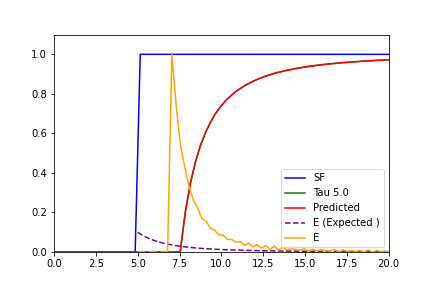
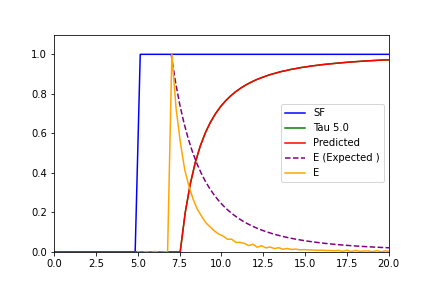
E expected

diff --git a/Experiments/Preliminary/Convolution_script/Convolution_017_unified_time_delay_Model/Conv_unified_017.py b/Experiments/Preliminary/Convolution_script/Convolution_017_unified_time_delay_Model/Conv_unified_017.py
@@ -12,14 +12,14 @@ from lightning.pytorch import loggers as pl_loggers
 
 tau_5_dir = '/Users/tuanaoyuncu/Documents/GitHub/nRTD/Experiments/Preliminary/Litrature/Unified_time_delay'
 
-t_conv_tau = torch.tensor(np.load(os.path.join(tau_5_dir, 'time_J5_tau1_alpha0.2.npy')), dtype=torch.float32).unsqueeze(0).unsqueeze(0)
-c_out_tau = torch.tensor(np.load(os.path.join(tau_5_dir, 'concentration_J5_tau1_alpha0.2.npy')), dtype=torch.float32).unsqueeze(0).unsqueeze(0)
+t_conv_tau = torch.tensor(np.load(os.path.join(tau_5_dir, 'time_J5_tau3_alpha0.2.npy')), dtype=torch.float32).unsqueeze(0).unsqueeze(0)
+c_out_tau = torch.tensor(np.load(os.path.join(tau_5_dir, 'concentration_J5_tau3_alpha0.2.npy')), dtype=torch.float32).unsqueeze(0).unsqueeze(0)
 
 n_disc = 111
 t_input = torch.linspace(0, 20, n_disc)
 c_in = torch.zeros((1, 1, n_disc))
-c_in[::2, :, t_input > 1] = 1
-c_in[1::2, :, t_input < 1] = 1
+c_in[::2, :, t_input > 5] = 1
+c_in[1::2, :, t_input < 5] = 1
 
 c_out_list = []
 t_conv_list = []
@@ -83,6 +83,7 @@ E = model.net.E[0]
 t_E = torch.linspace(0, 25, model.kernel_size)
 E = E / E.max()
 
+
 plt.figure()
 plt.plot(t_input, c_in[0, 0, :].numpy(), label="SF", color="blue")
 
@@ -103,21 +104,24 @@ plt.plot(
 
 t_plot = torch.linspace(0, 40, 1000).numpy()
 
-E_expected =  (123.224 * np.exp(-5.24709 * t_plot) * t_plot**4
-       + 5.66367e-9 * np.exp(-0.952909 * t_plot) * t_plot**4
-       - 6.36342 * np.exp(-5.24709 * t_plot) * t_plot**3
-       + 8.68252e-6 * np.exp(-0.952909 * t_plot) * t_plot**3
-       - 4.34703 * np.exp(-5.24709 * t_plot) * t_plot**2
-       + 0.00108703 * np.exp(-0.952909 * t_plot) * t_plot**2
-       - 1.97921 * np.exp(-5.24709 * t_plot) * t_plot
-       + 0.0449 * np.exp(-0.952909 * t_plot) * t_plot
-       - 0.450448 * np.exp(-5.24709 * t_plot)
-       + 0.450448 * np.exp(-0.952909 * t_plot))
+E_expected=(0.507094 * np.exp(-1.74903 * t_plot) * t_plot**4
+               + 9.81543e-11 * np.exp(-0.317636 * t_plot) * t_plot**4
+               - 0.0785608 * np.exp(-1.74903 * t_plot) * t_plot**3
+               + 1.0707e-7 * np.exp(-0.317636 * t_plot) * t_plot**3
+               - 0.161001 * np.exp(-1.74903 * t_plot) * t_plot**2
+               + 4.02603e-5 * np.exp(-0.317636 * t_plot) * t_plot**2
+               - 0.219912 * np.exp(-1.74903 * t_plot) * t_plot
+               + 0.00498889 * np.exp(-0.317636 * t_plot) * t_plot
+               - 0.150149 * np.exp(-1.74903 * t_plot)
+               + 0.150149 * np.exp(-0.317636 * t_plot))
 
 E_expected[t_plot < 5] = 0
+
+E_expected =E_expected /E_expected.max()
+
 plt.plot(t_plot, E_expected, label="E_Expected", color="purple", linestyle='--')
 plt.plot(t_E, E, label="E_predicted", color="orange")
-plt.savefig("Figure_conv_unifiedtdelay_J5_tau1")
+#plt.savefig("Figure_conv_unifiedtdelay_J5_tau1")
 plt.xlim((0, 50))
 plt.ylim((0, 1.1))
 plt.legend()

diff --git a/Experiments/Preliminary/Convolution_script/Convolution_016_Dispersion_Model/Conv_dispersion_016.py b/Experiments/Preliminary/Convolution_script/Convolution_016_Dispersion_Model/Conv_dispersion_016.py
@@ -12,10 +12,10 @@ from nrtd import RTDModule
 from lightning.pytorch import loggers as pl_loggers
 
 
-if wandb.run is not None:
-    wandb.finish()
-module_path = os.path.expanduser("~/Documents/GitHub/nRTD/lib")
-sys.path.append(module_path)
+# if wandb.run is not None:
+#     wandb.finish()
+# module_path = os.path.expanduser("~/Documents/GitHub/nRTD/lib")
+# sys.path.append(module_path)
 
 tau_5_dir = '/Users/tuanaoyuncu/Documents/GitHub/nRTD/Experiments/Preliminary/Litrature/Dispersion_Model/Bo10_200'
 t_conv_tau = torch.tensor(np.load(os.path.join(tau_5_dir, 'time.npy')), dtype=torch.float32).unsqueeze(0).unsqueeze(0)
@@ -84,17 +84,24 @@ plt.show()
 print(model(c_in).size())
 ds = TensorDataset(c_in, c_out)
 dl = DataLoader(ds, batch_size=20, shuffle=True)
-wandb_logger = pl_loggers.WandbLogger(
-    project="nRTD",
-    log_model=True
-)
+# wandb_logger = pl_loggers.WandbLogger(
+#     project="nRTD",
+#     log_model=True
+# )
+
+# trainer = pl.Trainer(
+#     accelerator="gpu" if torch.cuda.is_available() else "cpu",
+#     max_epochs=10000,
+#     logger=wandb_logger,
+#     deterministic=True,
+# )
 
 trainer = pl.Trainer(
     accelerator="gpu" if torch.cuda.is_available() else "cpu",
     max_epochs=10000,
-    logger=wandb_logger,
     deterministic=True,
 )
+
 trainer.fit(model, dl)
 trainer.test(model, dl)
 c_conv = model(c_in)
@@ -110,6 +117,7 @@ def expected_formula(t):
 E_expected_np = expected_formula(t_E_np)
 dt = t_E_np[1] - t_E_np[0]  
 E_expected_np /= np.sum(E_expected_np * dt)
+E_expected_np =E_expected_np /E_expected_np.max()
 
 
 plt.figure()
@@ -129,10 +137,10 @@ plt.plot(
     label="Predicted",
     color="red",
 )
-plt.plot(t_E_np, E_expected_np, label="E (Expected )", color="purple", linestyle="--")
+plt.plot(t_E_np+3, E_expected_np, label="E (Expected )", color="purple", linestyle="--")
 plt.plot(t_E, E, label="E", color="orange")
 plt.xlim((0, 100))
 plt.ylim((0, 1.1))
 plt.legend()
-#plt.savefig("Figure_conv_dispersion_Bo10_200disc_expected_epoch 10000")
+plt.savefig("Figure_conv_dispersion_Bo10_200disc_expected_epoch_10000")
 plt.show()

diff --git a/Experiments/Preliminary/Convolution_script/Convolution_011_Laminar_Model/Conv_laminar.py b/Experiments/Preliminary/Convolution_script/Convolution_011_Laminar_Model/Conv_laminar.py
@@ -11,10 +11,10 @@ import wandb
 from nrtd import RTDModule
 from lightning.pytorch import loggers as pl_loggers
 
-if wandb.run is not None:
-    wandb.finish()
-module_path = os.path.expanduser("~/Documents/GitHub/nRTD/lib")
-sys.path.append(module_path)
+# if wandb.run is not None:
+#     wandb.finish()
+# module_path = os.path.expanduser("~/Documents/GitHub/nRTD/lib")
+# sys.path.append(module_path)
 
 tau_5_dir = '/Users/tuanaoyuncu/Documents/GitHub/nRTD/Experiments/Preliminary/Litrature/Laminar_Flow_Model/tau_200_5.0'
 t_conv_tau = torch.tensor(np.load(os.path.join(tau_5_dir, 'time.npy')), dtype=torch.float32).unsqueeze(0).unsqueeze(0)
@@ -91,21 +91,27 @@ plt.show()
 print(model(c_in).size())
 ds = TensorDataset(c_in, c_out)
 dl = DataLoader(ds, batch_size=20, shuffle=True)
-wandb_logger = pl_loggers.WandbLogger(
-    project="nRTD",
-    log_model=True
-)
+# wandb_logger = pl_loggers.WandbLogger(
+#     project="nRTD",
+#     log_model=True
+# )
 
 ds = TensorDataset(c_in, c_out)
 dl = DataLoader(ds, batch_size=20, shuffle=True)
 
 
+# trainer = pl.Trainer(
+#     accelerator="auto",
+#     max_epochs=10000,
+#     logger=wandb_logger,
+#     deterministic=True,
+# )
 trainer = pl.Trainer(
     accelerator="auto",
     max_epochs=10000,
-    logger=wandb_logger,
     deterministic=True,
 )
+
 trainer.fit(model, dl)
 trainer.test(model, dl)
 
@@ -120,6 +126,7 @@ t_E_np = t_E.numpy()
 def expected_formula(t):
     return np.where(t >= 2.5,(5**2) / (2 * (t**3)), 0)
 E_expected_np = expected_formula(t_E_np)
+E_expected_np =E_expected_np /E_expected_np.max()
 
 
 
@@ -140,11 +147,11 @@ plt.plot(
     label="Predicted",
     color="red",
 )
-plt.plot(t_E_np, E_expected_np, label="E (Expected )", color="purple", linestyle="--")
+plt.plot(t_E_np+2, E_expected_np, label="E (Expected )", color="purple", linestyle="--")
 plt.plot(t_E, E, label="E", color="orange")
 plt.xlim((0, 20))
 plt.ylim((0, 1.1))
 plt.legend()
 
-#plt.savefig("Figure_conv_laminar_002_dis200_expected")
+plt.savefig("Figure_conv_laminar_002_dis200_expected")
 plt.show()

diff --git a/Experiments/Preliminary/Litrature/Cholete_Model/Cholete_Model_004.py b/Experiments/Preliminary/Litrature/Cholete_Model/Cholete_Model_004.py
@@ -1,11 +1,3 @@
-#!/usr/bin/env python3
-# -*- coding: utf-8 -*-
-"""
-Created on Tue Sep 17 16:09:58 2024
-
-@author: tuanaoyuncu
-"""
-
 import numpy as np
 import matplotlib.pyplot as plt
 import numpy.typing as npt
@@ -46,7 +38,7 @@ for beta in beta_values:
     Bo_dir = os.path.join(base_dir, f'beta{beta}')
     os.makedirs(Bo_dir, exist_ok=True)
     np.save(os.path.join(Bo_dir, 'time.npy'), t_conv)
-    np.save(os.path.join(Bo_dir, 'concentration.npy'), E)
+    np.save(os.path.join(Bo_dir, 'concentration.npy'), c_out)
     c_out_derivative = np.gradient(c_out, t_conv)
     ax1.plot(t, E, label=f'beta {beta}')
     ax2.plot(t, F, label=f'beta {beta}')
@@ -57,7 +49,7 @@ ax1.legend()
 
 ax2.set_xlim(0, 120)
 ax2.set_xlabel('t')
-ax2.set_ylabel("d(c)/dt")
+ax2.set_ylabel("C")
 ax2.legend()
 plt.savefig("Figure_conv_Cholete_model")
 plt.tight_layout()

diff --git a/Experiments/Preliminary/Convolution_script/Convolution_015_Cholete_Model/Conv_Cholete_015.py b/Experiments/Preliminary/Convolution_script/Convolution_015_Cholete_Model/Conv_Cholete_015.py
@@ -11,10 +11,10 @@ import numpy as np
 import wandb
 from nrtd import RTDModule
 
-tau_5_dir = '/Users/tuanaoyuncu/Documents/GitHub/nRTD/Experiments/Preliminary/Litrature/Cholete_Model/beta0.9'
+Bo_dir = '/Users/tuanaoyuncu/Documents/GitHub/nRTD/Experiments/Preliminary/Litrature/Cholete_Model/beta0.9'
 
-t_conv_tau = torch.tensor(np.load(os.path.join(tau_5_dir, 'time.npy')), dtype=torch.float32).unsqueeze(0).unsqueeze(0)
-c_out_tau = torch.tensor(np.load(os.path.join(tau_5_dir, 'concentration.npy')), dtype=torch.float32).unsqueeze(0).unsqueeze(0)
+t_conv_tau = torch.tensor(np.load(os.path.join(Bo_dir, 'time.npy')), dtype=torch.float32).unsqueeze(0).unsqueeze(0)
+c_out_tau = torch.tensor(np.load(os.path.join(Bo_dir, 'concentration.npy')), dtype=torch.float32).unsqueeze(0).unsqueeze(0)
 
 
 n_disc = 119

diff --git a/Experiments/Preliminary/Convolution_script/Convolution_015_Adler_havarka_Model/Conv_adlerhovarko_015.py b/Experiments/Preliminary/Convolution_script/Convolution_015_Adler_havarka_Model/Conv_adlerhovarko_015.py
@@ -166,7 +166,7 @@ plt.plot(
     label="c_predicted",
     color="red",
 )
-plt.plot(t_E, E, label="E", color="orange")
+plt.plot(t_E-1, E, label="E", color="orange")
 plt.plot(t_plot, E_expected, label="E_predicted", color="purple", linestyle="--")
 plt.xlim((0, 50))
 plt.ylim((0, 1.1))
